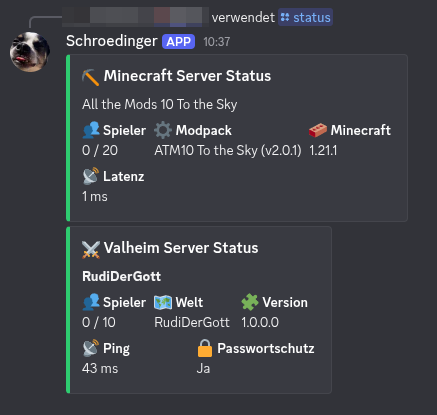
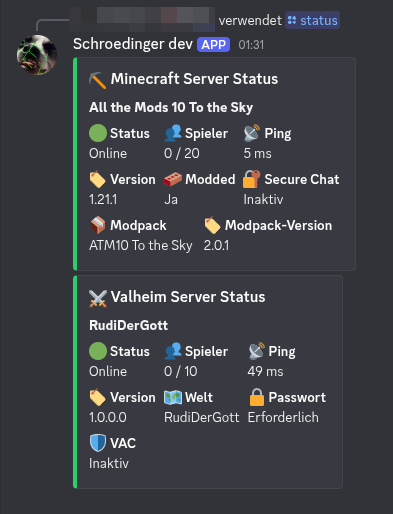
Refactor: add Valheim and Minecraft  server status model

Changed region(s): [[0.0, 0.0, 0.916, 0.9542], [0.5191, 0.4048, 0.855, 0.4916]]

diff --git a/src/schroedinger/commands/status.py b/src/schroedinger/commands/status.py
@@ -4,6 +4,7 @@ from typing import Literal
 
 import discord
 
+from ..models.server_status import MinecraftServerStatus, ValheimServerStatus
 from ..server.minecraft import check_mc_server_status
 from ..server.valheim import check_valheim_server_status
 
@@ -33,10 +34,75 @@ def create_server_embed(server_status, title: str) -> discord.Embed:
         inline=True,
     )
     embed.add_field(
-        name="🧩 Version",
+        name="🏷 Version",
         value=f"{server_status.version}",
         inline=True,
     )
+
+    return embed
+
+
+def create_minecraft_server_embed(
+    server_status: MinecraftServerStatus, title: str
+) -> discord.Embed:
+
+    embed = create_server_embed(server_status, title)
+
+    embed.add_field(
+        name="🧱 Modded",
+        value="Ja" if server_status.is_modded else "Nein",
+        inline=True,
+    )
+    embed.add_field(
+        name="🔐 Secure Chat",
+        value="Aktiv" if server_status.enforces_secure_chat else "Inaktiv",
+        inline=True,
+    )
+    if server_status.is_modded:
+        embed.add_field(
+            name="📦 Modpack",
+            value=f"{server_status.modpack['name']}",  # type: ignore
+            inline=True,
+        )
+        embed.add_field(
+            name="🏷 Modpack-Version",
+            value=f"{server_status.modpack['version']}",  # type: ignore
+            inline=True,
+        )
+    return embed
+
+
+def create_valheim_server_embed(
+    server_status: ValheimServerStatus, title: str
+) -> discord.Embed:
+
+    embed = create_server_embed(server_status, title)
+
+    embed.add_field(
+        name="🗺 Welt",
+        value=server_status.map_name,
+        inline=True,
+    )
+    embed.add_field(
+        name="🔒 Passwort",
+        value="Erforderlich"
+        if server_status.password_protected
+        else "Nicht erforderlich",
+        inline=True,
+    )
+    embed.add_field(
+        name="🛡 VAC",
+        value="Aktiv" if server_status.vac_enabled else "Inaktiv",
+        inline=True,
+    )
+    # embed.add_field(
+    #     name="🔌 Port",
+    #     value=str(server_status.port)
+    #     if server_status.port is not None
+    #     else "Unbekannt",
+    #     inline=True,
+    # )
+
     return embed
 
 
@@ -54,24 +120,29 @@ def register_status_command(client) -> None:
             )
             embeds.extend(
                 [
-                    create_server_embed(minecraft_status, "⛏ Minecraft Server Status"),
-                    create_server_embed(valheim_status, "⚔ Valheim Server Status"),
+                    create_minecraft_server_embed(
+                        minecraft_status, "⛏ Minecraft Server Status"
+                    ),
+                    create_valheim_server_embed(
+                        valheim_status, "⚔ Valheim Server Status"
+                    ),
                 ]
             )
 
         if game == "Minecraft":
             mc_server_status = await check_mc_server_status()
-
             logger.info("Minecraft status command executed")
             embeds.append(
-                create_server_embed(mc_server_status, "⛏ Minecraft Server Status")
+                create_minecraft_server_embed(
+                    mc_server_status, "⛏ Minecraft Server Status"
+                )
             )
 
         if game == "Valheim":
             logger.info("Checking Valheim server status...")
             vh_server_status = await check_valheim_server_status()
             embeds.append(
-                create_server_embed(vh_server_status, "⚔ Valheim Server Status")
+                create_valheim_server_embed(vh_server_status, "⚔ Valheim Server Status")
             )
             logger.info("Valheim status command executed")
 

diff --git a/src/schroedinger/server/valheim.py b/src/schroedinger/server/valheim.py
@@ -3,30 +3,67 @@ import logging
 import a2s
 
 from ..config import VALHEIM_HOST_IP, VALHEIM_PORT
-from ..models.server_status import ServerStatus
+from ..models.server_status import ValheimServerStatus
 
 logger = logging.getLogger(__name__)
 
 
-async def check_valheim_server_status() -> ServerStatus:
+async def check_valheim_server_status() -> ValheimServerStatus:
     try:
         info = await a2s.ainfo((VALHEIM_HOST_IP, VALHEIM_PORT), timeout=3.0)  # type: ignore
-        return ServerStatus(
+
+        logger.info(info)
+
+        return ValheimServerStatus(
             description=info.server_name,
             online=True,
             players=info.player_count,
             max_players=info.max_players,
             latency=info.ping * 1000,
             version=info.version,
+            protocol=info.protocol,
+            map_name=info.map_name,
+            folder=info.folder,
+            game=info.game,
+            app_id=info.app_id,
+            bot_count=info.bot_count,
+            server_type=info.server_type,
+            platform=info.platform,
+            password_protected=info.password_protected,
+            vac_enabled=info.vac_enabled,
+            edf=info.edf,
+            port=info.port,
+            steam_id=info.steam_id,
+            stv_port=info.stv_port,
+            stv_name=info.stv_name,
+            keywords=info.keywords,
+            game_id=info.game_id,
         )
 
     except Exception as e:
         logger.error("Valheim Status Error: %s", repr(e))
-        return ServerStatus(
+        return ValheimServerStatus(
             description="Unknown",
             online=False,
             players=0,
             max_players=0,
             latency=0,
             version="Unknown",
+            protocol=0,
+            map_name="Unknown",
+            folder="Unknown",
+            game="Unknown",
+            app_id=0,
+            bot_count=0,
+            server_type="Unknown",
+            platform="Unknown",
+            password_protected=False,
+            vac_enabled=False,
+            edf=0,
+            port=None,
+            steam_id=None,
+            stv_port=None,
+            stv_name=None,
+            keywords=None,
+            game_id=None,
         )

diff --git a/src/schroedinger/server/minecraft.py b/src/schroedinger/server/minecraft.py
@@ -3,33 +3,43 @@ import logging
 from mcstatus import JavaServer
 
 from ..config import MINECRAFT_HOST_IP, MINECRAFT_PORT
-from ..models.server_status import ServerStatus
+from ..models.server_status import MinecraftServerStatus
 
 logger = logging.getLogger(__name__)
 
 
-async def check_mc_server_status() -> ServerStatus:
-    server = JavaServer(MINECRAFT_HOST_IP, MINECRAFT_PORT)
+async def check_mc_server_status() -> MinecraftServerStatus:
+    server = JavaServer(MINECRAFT_HOST_IP, MINECRAFT_PORT)  # type: ignore
     try:
         status = await server.async_status()
 
-        return ServerStatus(
-            description=status.raw.get("description"),
+        return MinecraftServerStatus(
+            description=status.description,
             online=True,
             players=status.players.online,
             max_players=status.players.max,
             latency=status.latency,
             version=status.version.name,
+            is_modded=status.raw.get("isModded", False),
+            modpack=status.raw.get("betterStatus"),
+            enforces_secure_chat=status.raw.get("enforcesSecureChat"),
+            prevents_chat_reports=status.raw.get("preventsChatReports"),
+            protocol_version=status.version.protocol,
         )
 
     except Exception as e:
-        logger.error("Minecraft Status Error: %s", repr(e))
+        logger.error("Minecraft Status Error: %s", e)
 
-        return ServerStatus(
+        return MinecraftServerStatus(
             description="Unknown",
             online=False,
             players=0,
             max_players=0,
             latency=0,
             version="Unknown",
+            is_modded=False,
+            modpack=None,
+            enforces_secure_chat=False,
+            prevents_chat_reports=False,
+            protocol_version=0,
         )

diff --git a/src/schroedinger/__init__.py b/src/schroedinger/__init__.py
@@ -1,1 +1,53 @@
-from .logger import logger
+import asyncio
+import logging
+
+import discord
+import dotenv
+from discord.ext import commands
+
+from .config import (
+    TOKEN,
+)
+
+logger = logging.getLogger(__name__)
+dotenv.load_dotenv()
+
+intents = discord.Intents.default()
+intents.message_content = True
+
+client = commands.Bot(intents=intents, command_prefix="/")
+
+
+async def run(cmd):
+    proc = await asyncio.create_subprocess_shell(
+        cmd, stdout=asyncio.subprocess.PIPE, stderr=asyncio.subprocess.PIPE
+    )
+
+    stdout, stderr = await proc.communicate()
+
+    logger.info("[%r exited with %s]", cmd, proc.returncode)
+    if stdout:
+        logger.info("[stdout] %s", stdout.decode())
+    if stderr:
+        logger.error("[stderr] %s", stderr.decode())
+    return proc.returncode
+
+
+def main() -> None:
+    # Enviromenrt variablen holen
+
+    @client.event
+    async def on_ready():
+        logger.info("We have logged in as %s", client.user)
+        await client.tree.sync()
+        logger.info("Slash-Commands erfolgreich synchronisiert!")
+
+    @client.event
+    async def on_message(message):
+        if message.author == client.user:
+            return
+
+    if TOKEN != None:
+        client.run(TOKEN, log_handler=None)
+
+        return

diff --git a/src/schroedinger/models/server_status.py b/src/schroedinger/models/server_status.py
@@ -9,3 +9,39 @@ class ServerStatus:
     max_players: int
     latency: float
     version: str
+
+
+@dataclass
+class MinecraftServerStatus(ServerStatus):
+    is_modded: bool
+    modpack: MinecraftModpack | None
+    enforces_secure_chat: bool | None
+    prevents_chat_reports: bool | None
+    protocol_version: int
+
+
+@dataclass
+class MinecraftModpack:
+    name: str
+    version: str
+
+
+@dataclass
+class ValheimServerStatus(ServerStatus):
+    protocol: int
+    map_name: str
+    folder: str
+    game: str
+    app_id: int
+    bot_count: int
+    server_type: str
+    platform: str
+    password_protected: bool
+    vac_enabled: bool
+    edf: int
+    port: int | None
+    steam_id: int | None
+    stv_port: int | None
+    stv_name: str | None
+    keywords: str | None
+    game_id: int | None

diff --git a/README.md b/README.md
@@ -2,7 +2,7 @@
 
 Ein kleiner Discord-Bot zum Überprüfen von Server-Status.
 
-![Abbildung vom /status all Befehl](image-1.png)
+![Abbildung vom /status all Befehl](image.png)
 
 ---
 
@@ -24,10 +24,10 @@ uv sync
 ### Configuration
 
 Erstelle und konfiguriere eine `.env` im Projektverzeichnis.
-`.env_example` dient als Vorlage.
+`.env.example` dient als Vorlage.
 
 ```bash
-cp .env_example .env
+cp .env.example .env
 ```
 
 ```env
